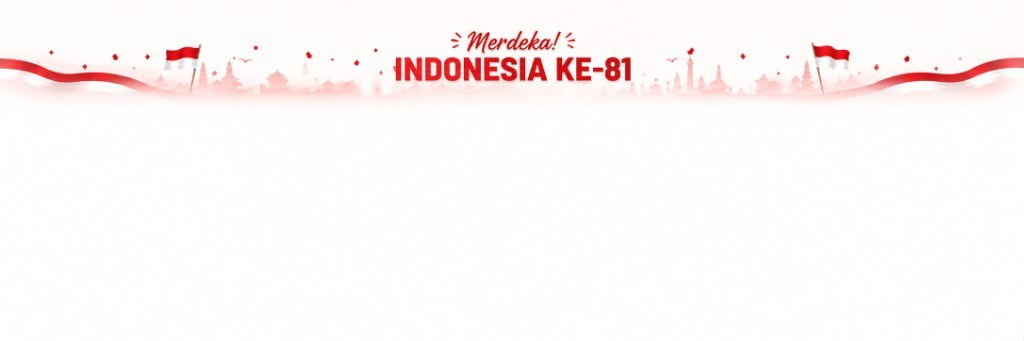
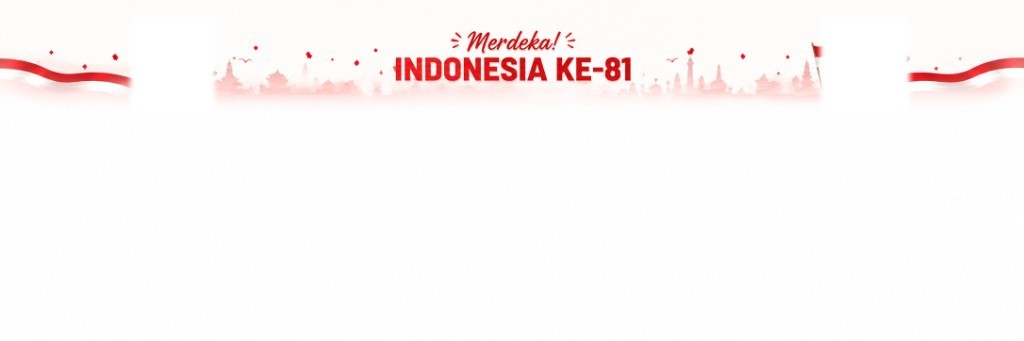
Drop Merdeka pole flags; taller header fades into the page.

Changed region(s): [[0.7812, 0.1173, 0.9062, 0.2933], [0.125, 0.1173, 0.2188, 0.2933]]

diff --git a/styles/laris-merdeka.css b/styles/laris-merdeka.css
@@ -116,42 +116,52 @@
 }
 
 /* ---- 4. Site B August header banner ------------------------------ */
-/* Applied to .main-top (the bar right of the sidebar). Shows the top
-   decorative band of the Merdeka artwork for the whole month of August.
-   Soft white gradient at the bottom so the art fades into the page. */
+/* Applied to .main-top (the bar right of the sidebar). Banner art sits
+   in a taller strip and fades into the page slightly below the bar. */
 .main-top.mdk-header-bg {
   position: relative;
   isolation: isolate;
+  z-index: 5;
+  overflow: visible;
   background-color: #fff;
   background-image:
     linear-gradient(
       to bottom,
       rgba(255, 255, 255, 0) 0%,
-      rgba(255, 255, 255, 0) 42%,
-      rgba(255, 255, 255, 0.55) 72%,
+      rgba(255, 255, 255, 0) 28%,
+      rgba(255, 255, 255, 0.35) 52%,
+      rgba(255, 255, 255, 0.82) 78%,
       #ffffff 100%
     ),
     url('/images/brand/merdeka-header-aug.jpg');
   background-repeat: no-repeat;
   background-position: center top, center top;
-  background-size: cover, cover;
+  background-size: 100% auto, 100% auto;
   border-bottom: none;
-  min-height: 76px;
-  padding-top: 16px;
-  padding-bottom: 20px;
+  /* Interactive row + room for the fade to continue past header chrome. */
+  min-height: 92px;
+  padding-top: 18px;
+  padding-bottom: 40px;
+  /* Pull following content up into the soft fade zone. */
+  margin-bottom: -28px;
 }
 
-/* Extra soft spill so the fade continues a bit into the content below. */
+/* Soft spill past the header edge into the page beneath. */
 .main-top.mdk-header-bg::after {
   content: "";
   position: absolute;
   left: 0;
   right: 0;
-  bottom: -18px;
-  height: 28px;
+  bottom: -22px;
+  height: 36px;
   pointer-events: none;
   z-index: 1;
-  background: linear-gradient(to bottom, rgba(255, 255, 255, 0.92), rgba(255, 255, 255, 0));
+  background: linear-gradient(
+    to bottom,
+    rgba(255, 255, 255, 0.95) 0%,
+    rgba(255, 255, 255, 0.55) 45%,
+    rgba(255, 255, 255, 0) 100%
+  );
 }
 
 /* Keep header controls readable over the busy banner art. */
@@ -174,11 +184,25 @@
   z-index: 2;
 }
 
+/* Content under the fade should sit above page bg but under header chrome. */
+html.mdk-aug-b .results-bar,
+html.mdk-aug-b .panel {
+  position: relative;
+  z-index: 1;
+}
+
 @media (max-width: 640px) {
   .main-top.mdk-header-bg {
-    min-height: 68px;
-    padding-top: 14px;
-    padding-bottom: 16px;
-    background-position: center top, 62% top;
+    min-height: 80px;
+    padding-top: 16px;
+    padding-bottom: 34px;
+    margin-bottom: -24px;
+    background-position: center top, 58% top;
+    background-size: cover, cover;
+  }
+
+  .main-top.mdk-header-bg::after {
+    bottom: -18px;
+    height: 30px;
   }
 }

diff --git a/index.html b/index.html
@@ -205,7 +205,7 @@
 <link rel="stylesheet" href="/fonts/laris-fonts.css">
 <link rel="stylesheet" href="/styles/daily-spin-wheel.css?v=20260730g">
 <link rel="stylesheet" href="/styles/laris-tracker.css?v=20260801g">
-<link rel="stylesheet" href="/styles/laris-merdeka.css?v=20260808c">
+<link rel="stylesheet" href="/styles/laris-merdeka.css?v=20260808d">
 <link rel="stylesheet" href="/styles/laris-side-panel.css?v=20260807a">
 <link rel="stylesheet" href="/styles/laris-catpicker.css?v=20260807a">
 <link rel="stylesheet" href="/styles/laris-finder.css?v=20260807a">

diff --git a/gpt/index.html b/gpt/index.html
@@ -78,7 +78,7 @@
 <link rel="stylesheet" href="/fonts/laris-fonts.css">
 <link rel="stylesheet" href="/styles/daily-spin-wheel.css?v=20260730g">
 <link rel="stylesheet" href="/styles/laris-tracker.css?v=20260801g">
-<link rel="stylesheet" href="/styles/laris-merdeka.css?v=20260808c">
+<link rel="stylesheet" href="/styles/laris-merdeka.css?v=20260808d">
 
 <style>
 :root {
